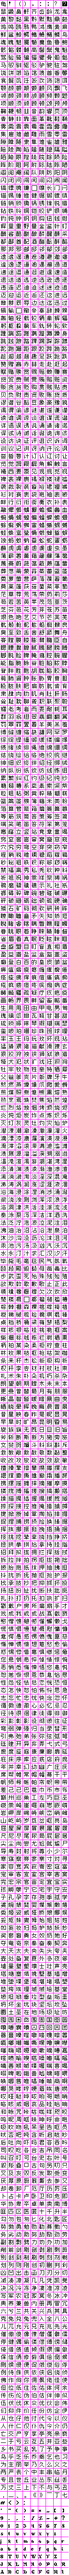
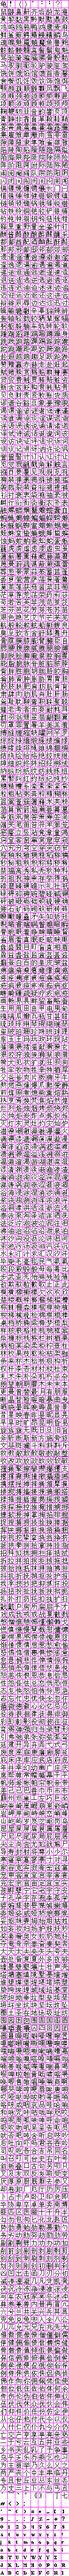
修改部分字体底色，解决原始大小中文溢出显示bug

diff --git a/src/Patches/TranslationPatch.cs b/src/Patches/TranslationPatch.cs
@@ -6,6 +6,7 @@ using System.IO;
 using System.Linq;
 using System.Reflection;
 using System.Text.RegularExpressions;
+using UnityEngine;
 
 using TranslationMod.Configuration;
 
@@ -299,15 +300,9 @@ namespace TranslationMod.Patches
                 var paragraphs = (List<string>)SplitIntoParagraphMethod.Invoke(instance, new object[] { translated });
                 if (paragraphs != null)
                 {
-                    if (ParseParagraphMethod == null)
-                    {
-                        TranslationMod.Logger?.LogError("ParseParagraphMethod is null");
-                        return;
-                    }
-                    
                     foreach (string paragraph in paragraphs)
                     {   
-                        ParseParagraphMethod.Invoke(instance, new object[] { paragraph });
+                        ParseParagraphComplete(instance, paragraph);
                     }
                 }
                 
@@ -605,6 +600,277 @@ namespace TranslationMod.Patches
         }
 
         /* ── PRIVATE ──────────────────────────────────────────── */
+
+        private static void ParseParagraphComplete(UITextBlock instance, string input)
+        {
+            if (string.IsNullOrEmpty(input))
+            {
+                return;
+            }
+
+            var textBlockType = typeof(UITextBlock);
+            var createLineMethod = textBlockType.GetMethod("createLine", BindingFlags.NonPublic | BindingFlags.Instance);
+            var shouldCreateNewLineMethod = textBlockType.GetMethod("shouldWeCreateNewLine", BindingFlags.NonPublic | BindingFlags.Instance);
+            var getPixelsToNextTabMethod = textBlockType.GetMethod("getPixelsToNextTab", BindingFlags.NonPublic | BindingFlags.Instance);
+            var trimBraceMethod = textBlockType.GetMethod("trimBrace", BindingFlags.NonPublic | BindingFlags.Instance);
+            var getDrawColorMethod = textBlockType.GetMethod("getDrawColor", BindingFlags.NonPublic | BindingFlags.Instance);
+            var pushColorMethod = textBlockType.GetMethod("pushColor", BindingFlags.NonPublic | BindingFlags.Instance);
+            var popColorMethod = textBlockType.GetMethod("popColor", BindingFlags.NonPublic | BindingFlags.Instance);
+
+            var currentTooltipWordField = textBlockType.GetField("currentTooltipWord", BindingFlags.NonPublic | BindingFlags.Instance);
+            var drawingQuoteField = textBlockType.GetField("drawingQuote", BindingFlags.NonPublic | BindingFlags.Instance);
+            var uppercaseTooltipWordsField = textBlockType.GetField("uppercaseTooltipWords", BindingFlags.NonPublic | BindingFlags.Instance);
+            var highlightQuotesField = textBlockType.GetField("highlightQuotes", BindingFlags.NonPublic | BindingFlags.Instance);
+            var toolTipHighlightColorField = textBlockType.GetField("toolTipHighlightColor", BindingFlags.NonPublic | BindingFlags.Instance);
+            var toolTipWordsField = textBlockType.GetField("toolTipWords", BindingFlags.NonPublic | BindingFlags.Instance);
+            var multiLineField = textBlockType.GetField("multiLine", BindingFlags.NonPublic | BindingFlags.Instance);
+
+            var wordType = textBlockType.GetNestedType("Word", BindingFlags.NonPublic);
+            var letterType = textBlockType.GetNestedType("Letter", BindingFlags.NonPublic);
+            var wordCtor = wordType?.GetConstructor(
+                BindingFlags.Instance | BindingFlags.Public | BindingFlags.NonPublic,
+                null,
+                new[] { typeof(Font) },
+                null);
+            var letterCtor = letterType?.GetConstructor(
+                BindingFlags.Instance | BindingFlags.Public | BindingFlags.NonPublic,
+                null,
+                new[] { typeof(char), typeof(Color32), typeof(Color32), typeof(Font) },
+                null);
+            var wordGetWidthInLineMethod = wordType?.GetMethod("getWidthInLine", BindingFlags.Public | BindingFlags.NonPublic | BindingFlags.Instance);
+            var wordHighlightWordField = wordType?.GetField("highlightWord", BindingFlags.Public | BindingFlags.Instance);
+
+            if (createLineMethod == null ||
+                shouldCreateNewLineMethod == null ||
+                getPixelsToNextTabMethod == null ||
+                trimBraceMethod == null ||
+                getDrawColorMethod == null ||
+                pushColorMethod == null ||
+                popColorMethod == null ||
+                currentTooltipWordField == null ||
+                drawingQuoteField == null ||
+                uppercaseTooltipWordsField == null ||
+                highlightQuotesField == null ||
+                toolTipHighlightColorField == null ||
+                toolTipWordsField == null ||
+                multiLineField == null ||
+                wordCtor == null ||
+                letterCtor == null ||
+                wordGetWidthInLineMethod == null ||
+                wordHighlightWordField == null)
+            {
+                ParseParagraphMethod?.Invoke(instance, new object[] { input });
+                return;
+            }
+
+            var font = FontField.GetValue(instance) as Font;
+            if (font == null)
+            {
+                return;
+            }
+
+            object CreateWord() => wordCtor.Invoke(new object[] { font });
+            UIElement CreateLetter(char c, Color32 main, Color32 shadow) => (UIElement)letterCtor.Invoke(new object[] { c, main, shadow, font });
+            UICanvasHorizontal CreateLine() => (UICanvasHorizontal)createLineMethod.Invoke(instance, null);
+            bool ShouldCreateNewLine(UICanvasHorizontal line, object word) => (bool)shouldCreateNewLineMethod.Invoke(instance, new[] { line, word });
+            int GetPixelsToNextTab(UICanvasHorizontal line) => (int)getPixelsToNextTabMethod.Invoke(instance, new object[] { line });
+            int GetWordWidthInLine(object word) => (int)wordGetWidthInLineMethod.Invoke(word, null);
+            string TrimBrace(string s) => (string)trimBraceMethod.Invoke(instance, new object[] { s });
+            Color32 GetDrawColor() => (Color32)getDrawColorMethod.Invoke(instance, null);
+            void PushColor(Color32 color) => pushColorMethod.Invoke(instance, new object[] { color });
+            void PopColor() => popColorMethod.Invoke(instance, null);
+            string CurrentTooltipWord() => (string)currentTooltipWordField.GetValue(instance);
+            void SetCurrentTooltipWord(string s) => currentTooltipWordField.SetValue(instance, s);
+            bool DrawingQuote() => (bool)drawingQuoteField.GetValue(instance);
+            void SetDrawingQuote(bool value) => drawingQuoteField.SetValue(instance, value);
+            bool UppercaseTooltipWords() => (bool)uppercaseTooltipWordsField.GetValue(instance);
+            bool HighlightQuotes() => (bool)highlightQuotesField.GetValue(instance);
+            Color32 ToolTipHighlightColor() => (Color32)toolTipHighlightColorField.GetValue(instance);
+            bool MultiLine() => (bool)multiLineField.GetValue(instance);
+            void SetWordHighlightWord(object word, string s) => wordHighlightWordField.SetValue(word, s);
+
+            UICanvasHorizontal lineCanvas = CreateLine();
+            object wordObj = CreateWord();
+            bool headerFlag = false;
+
+            int i = 0;
+            while (i < input.Length)
+            {
+                if (input[i] == '<')
+                {
+                    string text = input.Substring(i);
+                    int num = text.IndexOf(">") + 1;
+                    if (num > 0)
+                    {
+                        if (text.IndexOf(C64Color.HEADER_TAG_CONTENT) == 1)
+                        {
+                            PushColor(C64Color.HeaderColor);
+                            headerFlag = true;
+                        }
+                        else if (text.IndexOf("/" + C64Color.HEADER_TAG_CONTENT) == 1)
+                        {
+                            PopColor();
+                            headerFlag = false;
+                        }
+                        else if (text.IndexOf("tag") == 1 && !headerFlag)
+                        {
+                            SetCurrentTooltipWord(text.Substring(num).Split(new[] { '<' }, StringSplitOptions.None)[0]);
+                            PushColor(ToolTipHighlightColor());
+                        }
+                        else if (text.IndexOf("/tag") == 1 && !headerFlag && CurrentTooltipWord() != "")
+                        {
+                            SetCurrentTooltipWord("");
+                            PopColor();
+                        }
+                        else
+                        {
+                            string text2 = TrimBrace(text.Substring(0, num));
+                            if (text2.IndexOf("color=".ToUpper()) == 1)
+                            {
+                                int startIndex = text2.IndexOf("#".ToUpper());
+                                Color color;
+                                if (startIndex >= 0 &&
+                                    startIndex + 7 <= text2.Length &&
+                                    ColorUtility.TryParseHtmlString(text2.Substring(startIndex, 7), out color))
+                                {
+                                    PushColor(color);
+                                }
+                            }
+                            else if (text2.IndexOf("/color".ToUpper()) == 1)
+                            {
+                                PopColor();
+                            }
+                        }
+
+                        if (num > 1)
+                        {
+                            i += num - 1;
+                        }
+
+                        if (i >= input.Length - 1)
+                        {
+                            if (ShouldCreateNewLine(lineCanvas, wordObj))
+                            {
+                                lineCanvas = CreateLine();
+                            }
+                            lineCanvas.add((UIElement)wordObj);
+                            break;
+                        }
+
+                        i++;
+                        continue;
+                    }
+                }
+                else if (input[i] == '\t')
+                {
+                    lineCanvas.add((UIElement)wordObj);
+                    object tabWord = CreateWord();
+                    ((UICanvasHorizontal)tabWord).setWidth(GetPixelsToNextTab(lineCanvas));
+                    lineCanvas.add((UIElement)tabWord);
+                    wordObj = CreateWord();
+                    i++;
+                    continue;
+                }
+
+                if (input[i] != ' ')
+                {
+                    bool closingQuote = false;
+                    if (input[i] == '"' && HighlightQuotes())
+                    {
+                        if (DrawingQuote())
+                        {
+                            closingQuote = true;
+                        }
+                        SetDrawingQuote(!DrawingQuote());
+                    }
+
+                    UIElement letter;
+                    if (CurrentTooltipWord() != "")
+                    {
+                        char ch = UppercaseTooltipWords() ? char.ToUpper(input[i]) : input[i];
+                        letter = CreateLetter(ch, GetDrawColor(), instance.foregroundColors.shadowMainColor);
+                    }
+                    else if (DrawingQuote() || closingQuote)
+                    {
+                        letter = CreateLetter(input[i], C64Color.SmallTextQuoteColor, instance.foregroundColors.shadowMainColor);
+                    }
+                    else
+                    {
+                        letter = CreateLetter(input[i], GetDrawColor(), instance.foregroundColors.shadowMainColor);
+                    }
+
+                    letter.foregroundColors.hoverColor = instance.foregroundColors.hoverColor;
+                    letter.foregroundColors.leftClickedColor = instance.foregroundColors.leftClickedColor;
+                    letter.foregroundColors.outlineMainColor = instance.foregroundColors.outlineMainColor;
+
+                    if (MultiLine() || (!MultiLine() && lineCanvas.getWidth() + GetWordWidthInLine(wordObj) <= instance.getBaseWidth()))
+                    {
+                        ((UICanvasHorizontal)wordObj).add(letter);
+                    }
+
+                    if (CurrentTooltipWord() != "")
+                    {
+                        SetWordHighlightWord(wordObj, CurrentTooltipWord());
+                        var toolTipWords = toolTipWordsField.GetValue(instance) as System.Collections.IList;
+                        if (toolTipWords != null && !toolTipWords.Contains(wordObj))
+                        {
+                            toolTipWords.Add(wordObj);
+                        }
+                    }
+                }
+
+                if (input[i] == ' ' ||
+                    i >= input.Length - 1 ||
+                    (GetWordWidthInLine(wordObj) >= instance.getBaseWidth() && !instance.stretchHorizontal) ||
+                    IsNonAlphanumericSymbol(input[i]))
+                {
+                    bool needNewLine = ShouldCreateNewLine(lineCanvas, wordObj);
+                    if (input[i] == ' ')
+                    {
+                        ((UICanvasHorizontal)wordObj).add(CreateLetter(input[i], GetDrawColor(), instance.foregroundColors.shadowMainColor));
+                    }
+
+                    if (needNewLine)
+                    {
+                        lineCanvas = CreateLine();
+                        lineCanvas.add((UIElement)wordObj);
+                    }
+                    else if (i == input.Length - 1)
+                    {
+                        lineCanvas.add((UIElement)wordObj);
+                        lineCanvas = CreateLine();
+                    }
+                    else
+                    {
+                        lineCanvas.add((UIElement)wordObj);
+                    }
+
+                    wordObj = CreateWord();
+                }
+
+                i++;
+            }
+
+            if (lineCanvas != null && lineCanvas.getElements().Count == 0)
+            {
+                instance.getElements().Remove(lineCanvas);
+            }
+        }
+
+        private static bool IsNonAlphanumericSymbol(char c)
+        {
+            if (char.IsWhiteSpace(c))
+            {
+                return false;
+            }
+
+            if (c > sbyte.MaxValue)
+            {
+                return true;
+            }
+
+            return !char.IsLetterOrDigit(c);
+        }
 
         /// строит приближённый паттерн по ключу
         private static string BuildPattern(string key)
